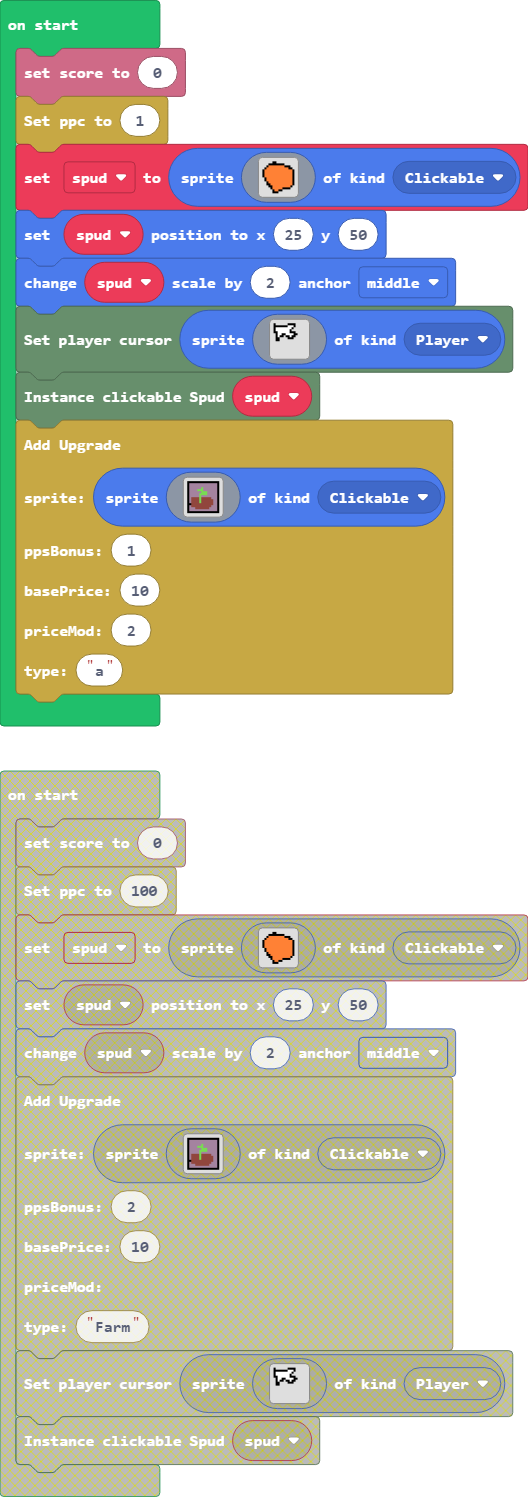
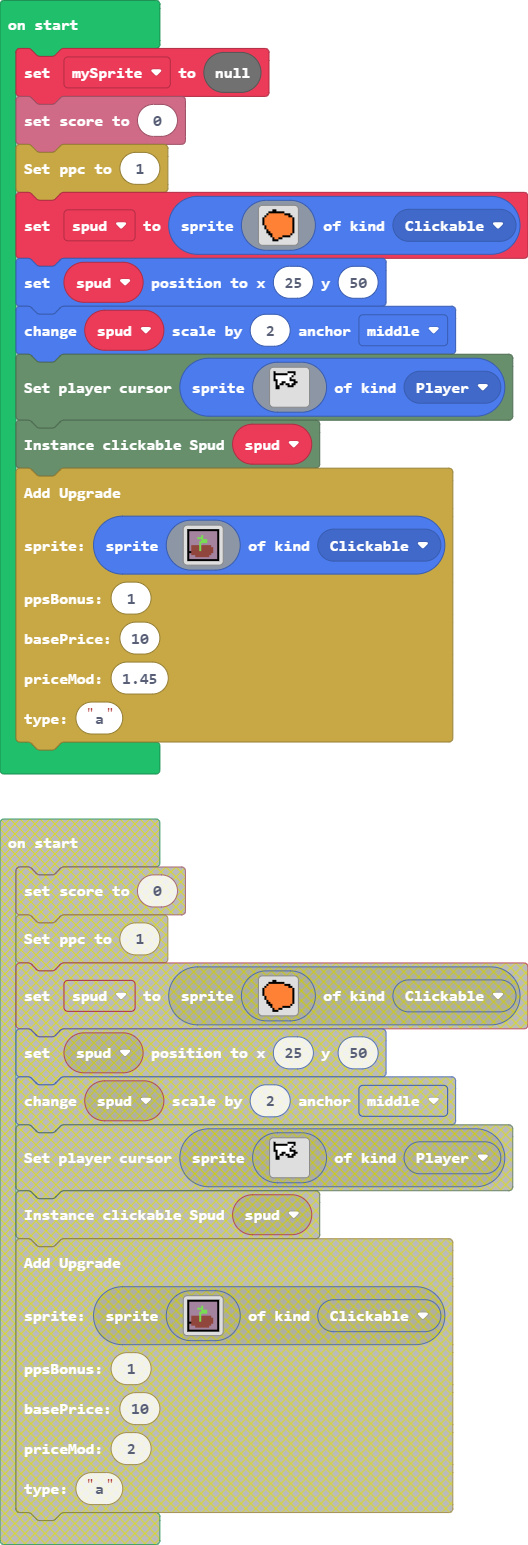
Buttons show info

diff --git a/ui.ts b/ui.ts
@@ -9,6 +9,11 @@ namespace ui {
     const buttonArr: Button[] = []
     let cursor: Sprite = null
 
+    // On game update
+    game.onUpdate(function () {
+        cursorOverlapsButton()
+    })
+
     /** Instances a new clickable Spud object
      * @param sprite - The texture of the Spud
      */
@@ -34,6 +39,21 @@ namespace ui {
     export function setCursor(sprite: Sprite): void {
         cursor = sprite
         controller.moveSprite(cursor)
+    }
+
+    // Checks if the cursor overlaps a button
+    function cursorOverlapsButton() {
+        // Checks if player cursor has been set
+        if (cursor == null) {
+            return
+        }
+        // Iterates through each Button object
+        for (let button of buttonArr) {
+            // Checks if the button overlaps with the cursor
+            if (button.sprite.overlapsWith(cursor)) {
+                button.showInfo()
+            }
+        }
     }
 
     // When the player clicks - checks if they clicked a button

diff --git a/images.g.ts b/images.g.ts
@@ -1,0 +1,26 @@
+// Auto-generated code. Do not edit.
+namespace myImages {
+
+    helpers._registerFactory("image", function(name: string) {
+        switch(helpers.stringTrim(name)) {
+
+        }
+        return null;
+    })
+
+    helpers._registerFactory("animation", function(name: string) {
+        switch(helpers.stringTrim(name)) {
+
+        }
+        return null;
+    })
+
+    helpers._registerFactory("song", function(name: string) {
+        switch(helpers.stringTrim(name)) {
+
+        }
+        return null;
+    })
+
+}
+// Auto-generated code. Do not edit.

diff --git a/upgrade.ts b/upgrade.ts
@@ -31,7 +31,10 @@ namespace upgrade {
             clicker_game.increasePps(this.ppsBonus)
             clicker_game.modifyScore(this.price * -1)
             this.upgradesOwned++
-            this.price = this.basePrice * this.upgradesOwned * (this.priceMod-1)
+            this.price = this.basePrice * this.upgradesOwned * this.priceMod
+        }
+        showInfo() {
+            this.sprite.sayText("Price: " + this.price + " Adds " + this.ppsBonus + " pps", 3)
         }
     }
 

diff --git a/main.ts b/main.ts
@@ -1,6 +1,7 @@
 namespace SpriteKind {
     export const Clickable = SpriteKind.create()
 }
+let mySprite = null
 info.setScore(0)
 clicker_game.setPpc(1)
 let spud = sprites.create(img`
@@ -63,6 +64,6 @@ sprites.create(img`
     `, SpriteKind.Clickable),
 1,
 10,
-2,
+1.45,
 "a"
 )

diff --git a/button.ts b/button.ts
@@ -7,6 +7,7 @@ namespace button {
         }
 
         trigger(): void {}
+        showInfo(): void {}
     }
 
     export class Spud extends Button {
